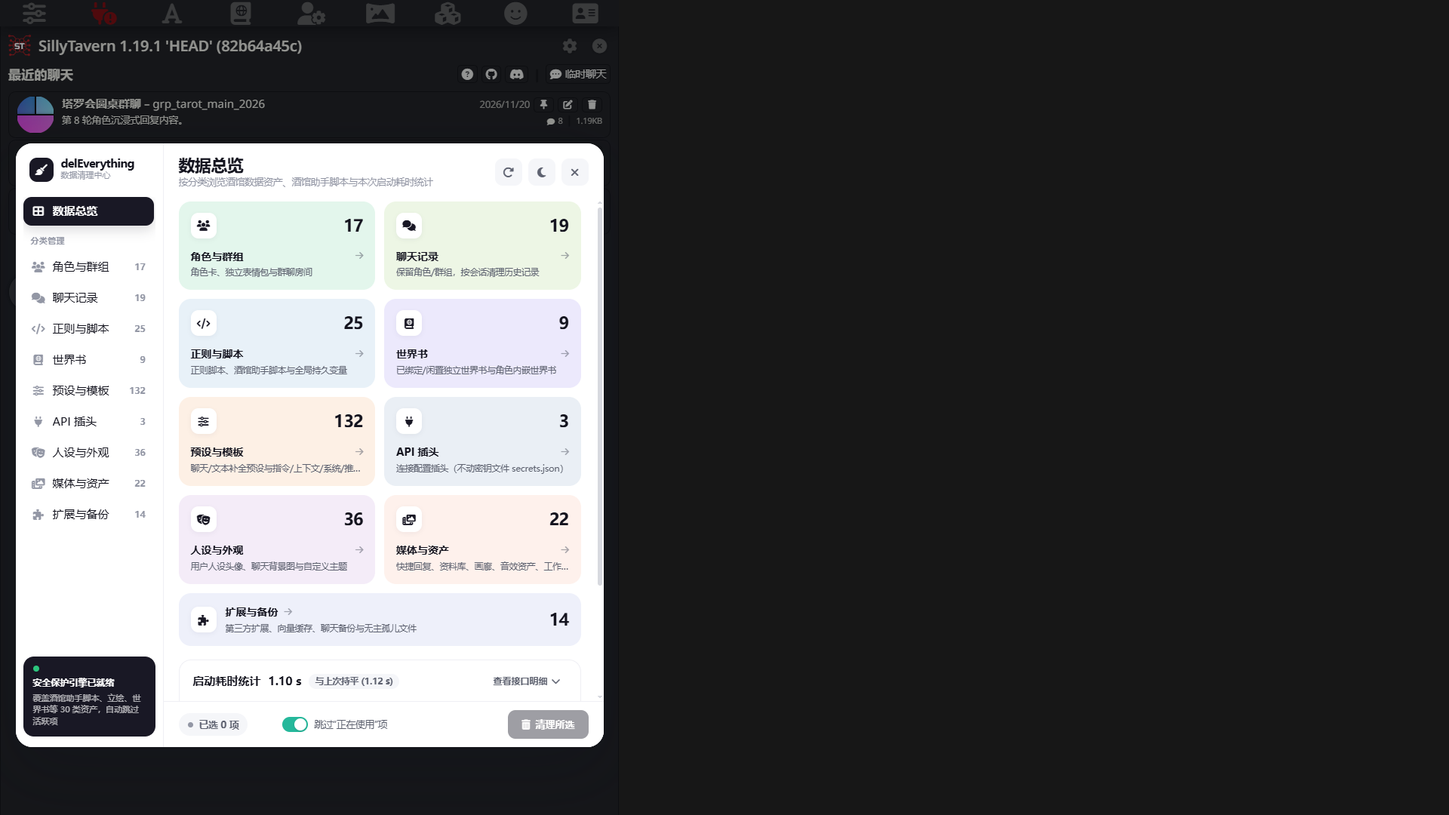
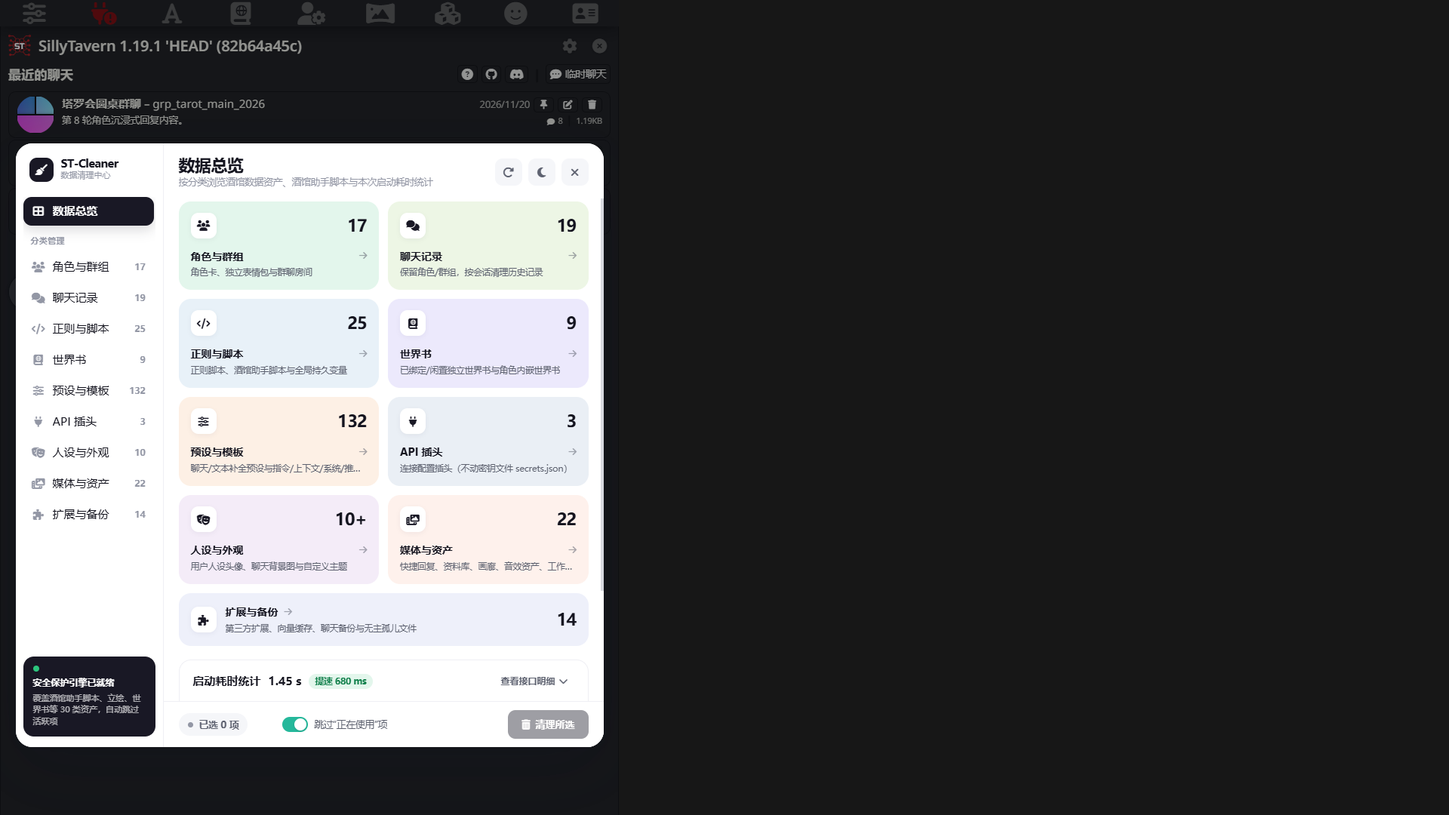
docs: polish README copywriting and refresh screenshots for ST-Cleaner

diff --git a/README.md b/README.md
@@ -1,201 +1,186 @@
 <div align="center">
 
-# 🧹 ST-Cleaner — 数据清理与启动诊断
+# 🧹 ST-Cleaner
 
-**专为 SillyTavern（酒馆）打造的零依赖、超轻量全量数据清理中心与冷启动耗时诊断扩展**
+**SillyTavern（酒馆）全量数据清理中心与启动耗时诊断扩展**
 
-[![SillyTavern](https://img.shields.io/badge/SillyTavern-1.13.4%20~%201.19.1%2B-6f42c1?style=flat-square)](https://github.com/SillyTavern/SillyTavern)
-[![Cold Start](https://img.shields.io/badge/Cold%20Start-%3C%203KB-2ea44f?style=flat-square)](#架构与性能设计)
-[![Dependencies](https://img.shields.io/badge/Dependencies-Zero-0969da?style=flat-square)](#架构与性能设计)
-[![Platform](https://img.shields.io/badge/Platform-Desktop%20%7C%20iPad%20%7C%20Android%20Termux-f59e0b?style=flat-square)](#实机界面展示)
-[![License](https://img.shields.io/badge/License-MIT-blue?style=flat-square)](./LICENSE)
+零第三方依赖 · 冷启动仅 `2.2 KB` · 覆盖 9 大分类 30 种资产 · 默认保护正在使用项
 
-[核心特性](#-核心特性) • [实机界面展示](#-实机界面展示) • [快速安装](#-快速安装) • [图文使用教程](#-图文使用教程) • [支持清理矩阵](#-支持清理矩阵9-大类--30-子项) • [安全机制](#-多重防误删与安全保障) • [常见问题](#-常见问题-faq)
+[![SillyTavern](https://img.shields.io/badge/SillyTavern-1.13.4%20~%201.19.1%2B-191825?style=flat-square)](https://github.com/SillyTavern/SillyTavern)
+[![Cold Start](https://img.shields.io/badge/Cold%20Start-2.2%20KB-25B89B?style=flat-square)](#-安全与高可用保障)
+[![Dependencies](https://img.shields.io/badge/Dependencies-Zero-0969da?style=flat-square)](#-为什么选择-st-cleaner)
+[![Responsive](https://img.shields.io/badge/UI-Desktop%20%7C%20iPad%20%7C%20Mobile%20Termux-FF4D6D?style=flat-square)](#-实机界面预览)
+[![License](https://img.shields.io/badge/License-MIT-6e7781?style=flat-square)](./LICENSE)
+
+[核心亮点](#-为什么选择-st-cleaner) • [界面预览](#-实机界面预览) • [快速安装](#-快速安装) • [使用指南](#-四步上手指南) • [支持清理范围](#-支持清理范围9-大类--30-子项) • [安全与高可用](#-安全与高可用保障) • [常见问题](#-常见问题-faq)
 
 </div>
 
 ---
 
-## 📖 项目简介
+## 💡 为什么选择 ST-Cleaner？
 
-长期使用 SillyTavern 后，酒馆目录往往会堆积上百张测试角色卡、立绘表情包、废弃聊天分支、冗余世界书、失效正则、**酒馆助手 (`JS-Slash-Runner`) 脚本**、旧版预设模板、生图工作流以及孤儿缩略图，导致 **首屏启动变慢、列表检索困难、手机端内存吃紧**，而逐个手动删除不仅繁琐，还容易残留引用或误删共享资源。
+重度使用 SillyTavern 一段时间后，数据目录往往会不知不觉堆积上百张测试角色卡、几百兆立绘表情包、废弃聊天分支、闲置世界书、失效正则、**酒馆助手 (`JS-Slash-Runner`) 旧脚本**、过期预设以及孤儿缩略图——不仅让 **首屏启动越来越慢、找卡翻半天、手机 Termux 内存吃紧**，手动挨个删还容易遇到两个痛点：**怕删错共用世界书 / 正在用的配置**，或者 **删完文件却留下一堆失效绑定引用**。
 
-**`ST-Cleaner`** 提供一站式解决方案：
-- **平时零负担**：冷启动入口仅 **`2.2 KB`**，不引入任何第三方库；仅在点击打开面板时按需动态加载扫描与界面模块，关闭窗口即销毁 DOM 与缓存。
-- **可量化的启动诊断**：静默采集浏览器 `Resource Timing` 并集墙钟耗时，直观对比 **「本次启动 vs 上次启动」** 提速幅度，定位拖慢酒馆的具体模块。
-- **全分类级联安全清理**：覆盖 **9 大分类、30 种细分数据类型**（含酒馆助手全局/角色/预设脚本与文件夹嵌套树、独立立绘表情包、ST 全局持久变量、音效资产、ComfyUI 工作流等），内置汉字全拼/首字母模糊检索、定高窗口虚拟列表与 **三阶段合并写回引擎**，删得干净且绝不误伤正在使用的配置或 API 密钥。
+**`ST-Cleaner`** 就是为解决这件事而生的轻量级酒馆管家：
 
----
-
-## ✨ 核心特性
-
-- ⚡ **`< 3KB` 极速冷启动**：主入口零重型静态依赖，酒馆启动阶段仅注入菜单入口并在空闲帧完成轻量采样。
-- 🎨 **清爽现代 SaaS 视觉体验**：纯白画布搭配深墨色胶囊侧栏、低饱和莫兰迪色卡与松石绿方框勾选交互，同时内置一键浅色 / 深色主题切换。
-- 📊 **启动耗时分段诊断**：自动合并并发请求重叠区间，按核心数据、预设模板、第三方扩展、媒体资源拆分耗时，并显示相对上次启动的提速毫秒数。
-- 🗂 **9 大分类 · 30 子项全覆盖**：除常规角色/聊天/世界书/预设/正则外，完整支持 **酒馆助手 (`TavernHelper` v3/v4) 全局脚本、角色内嵌脚本、预设内嵌脚本**、**角色立绘表情包独立清理（保留角色卡）**、**ST 全局脚本变量**、**音效/BGM/环境音资产** 与 **ComfyUI 生图工作流**。
-- 🔤 **内置零依赖拼音检索引擎**：无需安装 `pinyin-pro` 等外部包，原生支持 **中文原词、全拼、首字母缩写**（如输入 `kl`、`fll`、`ttj` 秒搜对应中文条目，内置 GB2312 一级字库与古风/二游常见二级生僻字）。
-- 📱 **全端自适应与万级虚拟列表**：桌面端双栏高效布局（`1366×768` 至 `2560×1440` 全档位无裁切适配），手机/Termux 端自动切换全屏抽屉与横向胶囊导航；10,000+ 条目恒定仅渲染约 25–35 个 DOM 节点。
-- 🛡 **严格防误删与引用自愈**：默认跳过全部「正在使用」项；删除角色或世界书自动清理群组、标签、人设、`charLore` 及酒馆助手脚本白名单残留绑定；**绝不触碰 `secrets.json` API 密钥文件**。
+- ⚡ **平时隐形、零启动负担**：冷启动入口仅 **`2.2 KB`**，不挂载任何第三方依赖；只有当你点开清理面板时才按需加载扫描与界面模块，关窗即彻底销毁 DOM 与内存缓存。
+- 📊 **看得见的启动提速反馈**：基于浏览器原生 `Resource Timing` 静默统计并集墙钟耗时，直观对比 **「本次启动 vs 上次启动」** 提速毫秒数，一眼看清哪类资源在拖慢酒馆。
+- 🗂 **9 大分类 · 30 种资产一站式接管**：从角色卡、独立表情包、单条聊天记录、世界书、8 类生成预设，到 **酒馆助手 v3/v4 全局/角色/预设脚本**、**ST 全局脚本变量**、**BGM/音效资产** 与 **ComfyUI 工作流** 全覆盖。
+- 🔤 **原生全拼与首字母秒搜**：内置轻量级汉字拼音索引（覆盖 GB2312 一级字库与古风/二游高频生僻字），输入 `kl`、`fll`、`ttj` 即可秒级定位中文条目；万级列表恒定仅渲染约 30 个节点，滚动丝滑不掉帧。
+- 🛡 **防呆保护与引用自动收尾**：默认开启 **「跳过正在使用项」**，删角色不伤共用世界书、删 API 插头绝不触碰 `secrets.json` 密钥，并在落盘阶段自动解绑群组、标签、人设与脚本白名单残留。
 
 ---
 
-## 🖼 实机界面展示
+## 🖼 实机界面预览
 
-### 1. 数据总览与启动耗时统计（莫兰迪九宫格）
-纯白画布搭配左侧深色胶囊导航、九大分类低饱和色卡实时计数，以及底部简洁直观的启动耗时对比进度条：
+### 1. 数据总览与启动耗时统计
+清爽莫兰迪九宫格直观汇总全馆资产规模，下方双色进度条展示各模块启动耗时占比与提速幅度（右上角支持一键切换 **浅色 / 深色模式**）：
 
-![数据总览与启动耗时面板](./docs/screenshots/02-overview-diagnostics.png)
+![ST-Cleaner 数据总览与启动耗时面板](./docs/screenshots/02-overview-diagnostics.png)
 
-### 2. 正则、酒馆助手脚本与全局持久变量精细清理
-完整扫描全局/角色/预设正则、**酒馆助手全局/角色/预设脚本（兼容文件夹嵌套树与懒加载角色卡自动解包）** 以及 **STscript 全局脚本变量**：
+### 2. 正则、酒馆助手脚本与全局变量精细管理
+完整识别全局/角色/预设正则、**酒馆助手 (`TavernHelper`) 全局/角色/预设脚本（兼容多层文件夹结构与 `ST 1.19+` 懒加载角色自动补全）** 及 **STscript 全局持久变量**：
 
 ![正则与酒馆助手脚本清理面板](./docs/screenshots/03-virtual-list-search.png)
 
 ### 3. 媒体、音效资产与 ComfyUI 工作流清理
-一站式管理快捷回复集、资料库附件、画廊图片、BGM/环境音资产以及自定义 ComfyUI 生图工作流（自动排除内置默认工作流）：
+集中管理快捷回复集、资料库附件、画廊插图、BGM/环境音资产与自定义 ComfyUI 生图工作流（自动隐藏官方内置默认工作流）：
 
 ![媒体与生图工作流清理面板](./docs/screenshots/06-media-assets-workflows.png)
 
-### 4. 二次安全确认与同源合并写回提示
-执行删除前自动汇总跨分类待删清单，同一角色或预设下的多条正则与酒馆助手脚本自动合并为 **1 次** 写盘请求：
+### 4. 跨分类二次确认与合并写回提示
+执行清理前自动生成跨分类核对清单；同一角色或预设下的多条内嵌脚本与世界书变更会自动合并为 **1 次** 写盘请求：
 
-![二次安全确认面板](./docs/screenshots/04-confirm-and-report.png)
+![跨分类二次安全确认抽屉](./docs/screenshots/04-confirm-and-report.png)
 
-### 5. 双入口集成与移动端 / Termux 响应式适配
-同时提供左下角魔法棒菜单与顶部扩展折叠面板开关；手机窄屏下自动切换顶部横向胶囊导航：
+### 5. 双入口唤起与全端响应式适配
+桌面端覆盖 `1366×768` 至 `2560×1440` 全分辨率无裁切布局；iPad 与手机 / Android Termux 窄屏自动切换顶部横向胶囊导航栏与双排操作底栏：
 
-![酒馆双入口与插件设置](./docs/screenshots/01-entry-points.png)
+![酒馆左下角魔法棒快捷入口](./docs/screenshots/01-entry-points.png)
 
 <div align="center">
-  <img src="./docs/screenshots/05-mobile-responsive.png" width="420" alt="移动端响应式布局" />
+  <img src="./docs/screenshots/05-mobile-responsive.png" width="46%" alt="移动端数据总览" />
+  &nbsp;&nbsp;
+  <img src="./docs/screenshots/09-mobile-workspace.png" width="46%" alt="移动端分类清理列表" />
 </div>
 
 ---
 
 ## 🚀 快速安装
 
-### 方式一：通过 SillyTavern 界面一键安装（推荐）
+### 方式一：SillyTavern 界面内一键安装（推荐）
 
-1. 打开 SillyTavern 顶部导航栏的 **扩展 (Extensions)** 图标（积木块图标）。
-2. 点击 **安装扩展 (Install extension)** 按钮。
-3. 在弹出的输入框中粘贴以下仓库地址：
+1. 点击 SillyTavern 顶部导航栏的 **扩展 (`Extensions`，积木图标)**。
+2. 点击 **安装扩展 (`Install extension`)**。
+3. 粘贴仓库地址：
    ```text
    https://github.com/lazyboysjh/ST-Cleaner
    ```
-4. 选择安装范围（单用户推荐默认 `Install just for me`），点击确认后刷新页面即可生效。
+4. 点击确认安装，刷新浏览器页面即可使用。
 
-### 方式二：命令行手动克隆（桌面端 / Android Termux）
-
-进入你的 SillyTavern 用户扩展目录并克隆仓库：
+### 方式二：命令行克隆安装（桌面端 / Android Termux）
 
 ```bash
 cd SillyTavern/data/default-user/extensions
 git clone https://github.com/lazyboysjh/ST-Cleaner
 ```
 
-完成后刷新浏览器页面即可。
+克隆完成后刷新酒馆页面即可生效。
 
 ---
 
-## 📘 图文使用教程
+## 📘 四步上手指南
 
-### 第一步：打开清理中心与管理插件开关
-安装并刷新酒馆后，你可以通过以下任意一个入口唤起面板：
-- **日常快捷入口**：点击聊天输入框左下角的 **魔法棒图标 (`✨`)** → 选择 **「数据清理与启动诊断」**。
-- **扩展设置入口**：点击顶部 **扩展 (`Extensions`)** → 展开 **「数据清理与启动诊断 (ST-Cleaner)」**：
-  - **启用插件总开关**：取消勾选后立即卸载快捷入口并停止后台工作，无需删除插件目录。
-  - **在左下角魔法棒菜单显示入口**：觉得魔法棒菜单拥挤时可单独隐藏，仅保留扩展面板内的启动按钮。
-  - **静默记录启动耗时对比**：控制是否在每次刷新页面时对比启动速度变化。
-
-### 第二步：查看启动诊断，定位拖慢酒馆的资源
-打开面板后默认进入 **「总览与诊断」** 页签：
-1. 顶部诊断卡片会显示本次启动的网络与静态资源墙钟总耗时；当清理数据并刷新酒馆后，右侧会自动显示绿色 **「较上次提速 xxx ms」** 徽章。
-2. 点击右上角 **「接口明细」** 可展开耗时最高的 Top 接口列表；点击任意模块旁的 **「去清理」** 或下方 **九宫格分类卡片**，即可直达对应分类。
-
-### 第三步：分类筛选与拼音模糊搜索
-在 **「分类清理」** 页签中：
-1. **切换子类**：点击搜索框下方的子分类胶囊（如 `世界书` 下的 `未绑定闲置世界书` / `已绑定独立世界书` / `角色卡内嵌世界书`）精准缩小范围。
-2. **拼音与多词搜索**：在搜索框中直接输入中文、英文文件名、**汉语全拼** 或 **拼音首字母**，多个关键词用空格分隔（取交集）：
-   - 输入 `kl` 或 `kle` → 匹配 `克莱恩·莫雷蒂`
-   - 输入 `fll` → 匹配 `芙莉莲`
-   - 输入 `ttj` → 匹配 `澹台烬`
-3. **查看完整长文本**：遇到超长文件名或路径被省略时，点击条目右侧的 **`···`** 按钮即可弹出完整详情浮层。
-
-### 第四步：跨分类勾选与安全批量删除
-1. 支持在多个不同分类间自由切换勾选（左侧导航栏会以蓝色角标实时标记各类已选数量），也可使用 **「全选本组」** 或 **「全选结果」** 快速批处理。
-2. 底部操作栏默认勾选 **「跳过 “正在使用” 项」**——即使全选了整个分类，当前激活的角色、会话、预设、世界书、API 插头、人设与主题也会被自动保护跳过。
-3. 点击右下角红色 **「清理所选」** 按钮，在弹出的二次确认抽屉中核对将受影响的分类与自动解绑提示，点击 **「确认永久删除」** 即可启动三阶段高速清理，并在完成后查看成功/跳过/失败明细报告。
+1. **打开面板**
+   - **快捷入口**：点击聊天输入框左下角的 **魔法棒图标 (`✨`)** → 选择 **「数据清理与启动诊断」**。
+   - **扩展面板设置**：打开顶部 **扩展 (`Extensions`)** → 展开 **「数据清理与启动诊断 (ST-Cleaner)」**，可随时开关插件总状态、单独隐藏魔法棒入口，或控制后台启动耗时采样。
+2. **先看总览与耗时**
+   - 首页九宫格会显示各类数据总量；底部 **「启动耗时统计」** 展示首屏网络与资源墙钟耗时，点击右侧 **「查看接口明细」** 可展开最慢的接口列表，点击任意卡片直接进入对应清理页。
+3. **子类筛选 + 拼音快搜**
+   - 通过顶部分组胶囊（如 `未绑定闲置世界书`、`角色立绘表情包`、`酒馆助手角色脚本`）快速缩小范围。
+   - 搜索框支持 **中文、英文文件名、全拼与拼音首字母**，多关键词以空格分隔取交集（如输入 `kl` 匹配 `克莱恩·莫雷蒂`，`fll` 匹配 `芙莉莲`）；超长名称可点击行尾 **`···`** 查看完整内容。
+4. **跨类勾选与安全清理**
+   - 可在不同分类间自由切换勾选（左侧导航栏会以珊瑚红角标实时统计各类待删项），底部默认开启 **「跳过正在使用项」**。
+   - 点击右下角 **「清理所选」** 核对确认清单，确认后自动执行 **并发文件清理 → 同源合并写回 → 引用解绑落盘** 三步流水线，并展示成功 / 跳过 / 失败明细报告。
 
 ---
 
-## 🗂 支持清理矩阵（9 大类 · 30 子项）
+## 🗂 支持清理范围（9 大类 · 30 子项）
 
-| 一级分类 | 包含子分类 | 清理行为与引用自愈说明 |
+| 分类 | 覆盖子项 | 清理逻辑与防误伤设计 |
 | :--- | :--- | :--- |
-| **1. 角色与群组** | 角色卡、**角色立绘表情包 (`Sprites`)**、群聊房间 | 支持**单独清理某角色的立绘表情包而保留角色卡本体**；删除整张角色卡时自动从群组、标签、人设、`charLore` 及酒馆助手启用列表中解绑，**绝不连带删除共享世界书或预设**。 |
-| **2. 聊天记录** | 角色单聊会话、群聊单条会话 | **保留角色卡与群组本体**，仅删除选中的历史会话 `.jsonl` 文件，并自动触发向量/附件关联清理事件。 |
-| **3. 正则与脚本** | 全局正则、角色局部正则、预设内嵌正则、正则开关组合、**酒馆助手全局脚本**、**酒馆助手角色脚本**、**酒馆助手预设脚本**、**ST 全局脚本变量** | 完整兼容 **酒馆助手 (`JS-Slash-Runner`) v3/v4 数据结构与文件夹嵌套树**，精准剥离单条脚本而不破坏其余脚本与文件夹；支持清理 `/setglobalvar` 遗留全局持久变量；自动补全 `ST 1.19+` 懒加载 (`shallow`) 角色数据。 |
-| **4. 世界书** | 未绑定闲置世界书、已绑定独立世界书、角色卡内嵌世界书 | 清晰标注全局/主世界书/辅助世界书/人设绑定去向；删除已绑定世界书自动解除各方残留引用；清空内嵌世界书仅置空 `character_book` 而不删角色卡。 |
-| **5. 预设与模板** | OpenAI 聊天预设、TextGen、Instruct、Context、SysPrompt、Reasoning、NovelAI、KoboldAI | 覆盖全部 8 类生成参数预设与提示词模板，自动识别并保护当前各引擎激活项，删除预设同步清理酒馆助手预设白名单残留。 |
-| **6. API 插头** | 连接配置插头 (`Connection Profiles`) | 仅清理 `extension_settings.connectionManager.profiles` 中的废弃连接配置，**100% 不读取、不修改 `secrets.json` 密钥文件**。 |
-| **7. 人设与外观** | 用户人设 (`Personas`)、聊天背景图、自定义界面主题 | 兼容旧版字符串数组与新版 `{ images }` 动图背景结构；删除人设自动清理对应头像与描述绑定。 |
-| **8. 媒体与资产** | 快捷回复集 (`Quick Replies`)、资料库附件 (`Data Bank`)、画廊图片、**音效与环境音资产 (`BGM/Ambient/Blip`)**、**ComfyUI 生图工作流**、角色标签 | 新增 `assets/` 音效文件清理与 `user/workflows/` 自定义 ComfyUI 工作流清理（自动排除官方内置默认工作流并保护当前选中工作流）；删除标签绝不误删角色卡本体。 |
-| **9. 扩展与备份** | 第三方扩展、向量缓存 (`Vectors`)、聊天自动备份、`Data Maid` 孤儿文件 | 自动隐藏官方内置系统扩展与本插件自身；非管理员账号自动隐藏全局扩展；自动排除 `settings.json` 备份以免破坏配置回滚能力。 |
+| **1. 角色与群组** | 角色卡、**角色立绘表情包 (`Sprites`)**、群聊房间 | 支持 **仅清理立绘表情包而完整保留角色卡**；删除角色卡时同步清理群组成员、标签、人设关联、`charLore` 与酒馆助手启用记录，**绝不连带删除共用世界书或预设**。 |
+| **2. 聊天记录** | 角色单聊会话、群聊单条会话 | **保留角色卡与群组本体**，仅删除选中的历史聊天 `.jsonl` 文件，并触发向量与会话附件联动清理。 |
+| **3. 正则与脚本** | 全局正则、角色局部正则、预设内嵌正则、正则开关组合、**酒馆助手全局/角色/预设脚本**、**ST 全局脚本变量** | 完整兼容 **酒馆助手 (`JS-Slash-Runner`) v3 / v4 脚本树与文件夹数组/字典结构**，精准移除选中脚本而不破坏同目录其他脚本；支持清理 `/setglobalvar` 遗留全局变量。 |
+| **4. 世界书** | 未绑定闲置世界书、已绑定独立世界书、角色内嵌世界书 | 自动区分闲置书与绑定书并标注绑定来源；删除独立世界书自动解除全局、角色与人设引用；清理内嵌世界书仅置空 `character_book` 而不删角色卡。 |
+| **5. 预设与模板** | OpenAI 聊天预设、TextGen、Instruct、Context、SysPrompt、Reasoning、NovelAI、KoboldAI | 覆盖全部 8 类参数预设与提示词模板，自动识别各引擎当前激活预设，删除时同步清理酒馆助手预设白名单残留。 |
+| **6. API 插头** | 连接配置插头 (`Connection Profiles`) | 仅移除连接管理器中的废弃端点配置，**全程不读取、不修改、不触碰 `secrets.json` API 密钥文件**。 |
+| **7. 人设与外观** | 用户人设 (`Personas`)、聊天背景图、自定义界面主题 | 兼容新旧版静/动态背景格式；删除人设自动清理对应头像文件与描述绑定。 |
+| **8. 媒体与资产** | 快捷回复 (`Quick Replies`)、资料库附件 (`Data Bank`)、画廊图片、**音效资产 (`BGM/Ambient/Blip`)**、**ComfyUI 工作流**、角色标签 | 支持清理 `assets/` 音效文件与自定义 ComfyUI 生图工作流（自动排除内置默认工作流）；删除角色标签仅移除标签定义与绑定，绝不误删角色卡。 |
+| **9. 扩展与备份** | 第三方扩展、向量缓存 (`Vectors`)、聊天自动备份、`Data Maid` 孤儿文件 | 自动隐藏官方核心扩展与 `ST-Cleaner` 自身；非管理员账号自动隐藏全局扩展；严格排除 `settings.json` 配置快照备份。 |
 
 ---
 
-## 🛡 多重防误删与安全保障
+## 🛡 安全与高可用保障
 
-1. **核心配置文件硬隔离**：任何操作均不会删除 `settings.json`、`secrets.json`、`config.yaml`、`default/` 官方初始种子资源、系统内置扩展及 `ST-Cleaner` 自身。
-2. **「正在使用」全链路识别**：自动检测当前打开的角色/群聊、正在聊天的会话、已启用的全局/局部/预设正则、全局及当前角色绑定的世界书、各引擎当前选中预设、激活中的 API 插头、当前人设头像与当前主题。
-3. **白名单与路径穿越拦截**：所有待删键值均须通过当次扫描会话白名单校验，文件名严格校验单层合法令牌与受控相对路径（如 `user/files/*`、`user/images/*`），拦截一切 `..` 越界访问。
-4. **三阶段事务级批处理引擎**：
-   - **Stage 1（有界并发）**：独立文件与接口删除严格限制在 `5` 路并发池内，避免瞬间打满本地 Node.js 或手机 Termux I/O；单条失败自动隔离，不中断整批任务。
-   - **Stage 2（同源合并写回）**：同一角色卡删除多条局部正则 + 清空内嵌世界书，自动合并为 **1 次** `merge-attributes` 写盘；同一预设删除多条内嵌正则，自动合并为 **1 次** `presets/save` 写盘。
-   - **Stage 3（内存解绑与单次落盘）**：统一同步酒馆实时 ES 模块状态（`world-info.js`、`personas.js`、`script.js`），并在末尾执行 **1 次** `saveSettings` 持久化。
+1. **核心配置与密钥硬隔离**：任何操作均不会触碰 `secrets.json`、`settings.json` 本体、`config.yaml`、`default/` 官方种子资源、系统内置扩展及 `ST-Cleaner` 自身。
+2. **会话白名单与路径防越界**：所有执行键必须命中当次扫描白名单并通过二次路径合法性校验（拦截一切 `..`、空字节、绝对路径及受保护内置资源名）。
+3. **父子同选事务一致性**：同时勾选父级资产（如角色卡 / 群组 / 预设）与其内嵌子项时，自动跳过冗余子请求；若父级删除因服务端异常未成功，子项同步中止并保留勾选，杜绝假成功提示。
+4. **索引对齐与活跃回退保护**：删除排在当前角色之前的闲置角色卡时，自动修正 `characterId` 偏移确保当前角色不错位；若用户主动关闭保护强制清理当前激活项，自动安全回退至默认预设/空状态并提示刷新同步。
+5. **抗抖动、防挂死与有界并发**：
+   - 扫描与删除请求均内置独立超时熔断，单个慢接口（如未启动的外部向量库）超时自动降级隔离，绝不卡死面板；
+   - 快速连续切换分类页签时自动取消旧请求且不污染会话缓存；
+   - 独立文件删除严格限制在 **`5` 路有界并发池**，角色与预设内嵌修改自动按归属合并为单次写回，并内置防重复提交互斥锁，兼顾速度与低配设备稳定性。
 
 ---
 
-## ✅ 真实酒馆版本兼容矩阵
+## ✅ 实测兼容版本
 
-本插件已在以下官方真实 SillyTavern 服务端与前端环境中通过全分类扫描、批量删除与磁盘 PNG/JSON 字节级校验：
+已在以下官方真实 SillyTavern 服务端与浏览器环境中通过全分类扫描、混合批量删除、故障注入及磁盘文件校验：
 
-| SillyTavern 版本 | 关键环境特征 | 实测状态 |
+| SillyTavern 版本 | 实测环境特性 | 状态 |
 | :--- | :--- | :---: |
-| **`v1.13.4`** | 旧版字符串数组背景列表、无聊天备份接口（自动静默降级） | ✅ 通过 |
-| **`v1.17.0`** | 新版背景元数据结构、聊天备份清理、多作用域世界书解绑 | ✅ 通过 |
-| **`v1.19.1`** | 开启 `performance.lazyLoadCharacters: true` 角色卡懒加载自动补全、`Reasoning` 推理模板、Secrets v2 | ✅ 通过 |
+| **`v1.13.4`** | 旧版字符串数组背景接口、无聊天备份 / Data Maid 接口（自动静默降级） | ✅ 通过 |
+| **`v1.17.0`** | 新版背景结构、聊天备份清理、多作用域世界书级联解绑 | ✅ 通过 |
+| **`v1.19.1+`** | 开启 `lazyLoadCharacters: true` 角色懒加载自动补全、推理模板、音效资产与 ComfyUI 工作流 | ✅ 通过 |
 
 ---
 
 ## ❓ 常见问题 (FAQ)
 
 <details>
-<summary><b>Q1：删除 API 连接插头会把我的 API Key 一起删掉吗？</b></summary>
+<summary><b>Q1：清理「API 插头」会把我的 API Key 删掉吗？</b></summary>
 <br/>
-不会。SillyTavern 的 API 密钥存储在服务端受保护的 <code>secrets.json</code> 中，而「API 插头」仅清理前端连接管理器中的配置项（URL、模型名、预设关联等），本插件全程不调用任何修改或删除密钥的接口。
+不会。API Key 保存在服务端独立的 <code>secrets.json</code> 中，而「API 插头」仅管理前端连接配置项（反代地址、模型名、关联预设等）。<code>ST-Cleaner</code> 全程不调用任何修改或删除密钥的接口。
 </details>
 
 <details>
-<summary><b>Q2：删除某张角色卡时，她绑定的独立世界书会被删掉吗？</b></summary>
+<summary><b>Q2：删除角色卡时，她绑定的独立世界书或酒馆助手全局脚本会被误删吗？</b></summary>
 <br/>
-不会。独立世界书可能被多张角色卡或全局共同引用，因此删除角色卡只会删除该角色卡 PNG、专属立绘文件夹与单聊记录，并自动清理绑定关系；如需清理闲置世界书，请前往「世界书 → 未绑定闲置世界书」分类单独勾选。
+不会。独立世界书和全局脚本可能被其他角色共同使用，因此删除角色卡只会移除该角色卡 PNG、专属立绘目录与单聊记录，并自动解除残留绑定；闲置的独立世界书或全局脚本需在对应分类下单独勾选才会删除。
 </details>
 
 <details>
-<summary><b>Q3：开启了 SillyTavern 1.19+ 的角色卡懒加载（Lazy Load Characters），还能扫描出角色内嵌正则和内嵌世界书吗？</b></summary>
+<summary><b>Q3：只想清掉某张卡占空间的表情包立绘，不想删角色卡和聊天记录，可以吗？</b></summary>
 <br/>
-完全支持。当切换到「正则脚本」或「世界书」分类时，扫描器会自动检测处于 <code>shallow === true</code> 状态的懒加载角色卡，并通过分批请求补全完整卡片数据，确保不遗漏任何局部正则或内嵌世界书。
+可以。进入「角色与群组 → 角色立绘表情包」子分类，勾选对应角色的立绘包清理即可，角色卡本体与所有聊天记录均会完整保留。
 </details>
 
 <details>
-<summary><b>Q4：安装插件本身会拖慢酒馆启动速度吗？</b></summary>
+<summary><b>Q4：开启了 SillyTavern 1.19+ 的角色卡懒加载（Lazy Load Characters），会漏扫角色内嵌脚本或内嵌世界书吗？</b></summary>
 <br/>
-不会。入口脚本体积不足 <code>3KB</code>，冷启动阶段不加载扫描器、删除器、拼音表与 UI 模板，仅在浏览器空闲帧读取已完成的性能条目；关闭清理窗口后所有界面节点与拼音索引缓存均立即释放回收。
+不会。切换到「正则与脚本」或「世界书」分类时，扫描器会自动识别尚未展开的 <code>shallow</code> 角色卡并分批补全卡片数据，确保角色局部正则、酒馆助手角色脚本与内嵌世界书全部准确列出。
+</details>
+
+<details>
+<summary><b>Q5：长期开着这个扩展会影响酒馆日常打开和聊天的速度吗？</b></summary>
+<br/>
+完全不会。冷启动入口仅 <code>2.2 KB</code>，平时不加载扫描器、删除器、拼音词表与界面样式节点；关闭清理窗口后所有界面节点与临时索引缓存都会立即释放。
 </details>
 
 ---
 
 ## 📄 开源协议
 
-本项目基于 [MIT License](./LICENSE) 开源，欢迎提交 Issue 与 Pull Request。
+本项目基于 [MIT License](./LICENSE) 开源，欢迎提交 Issue 与建议。
